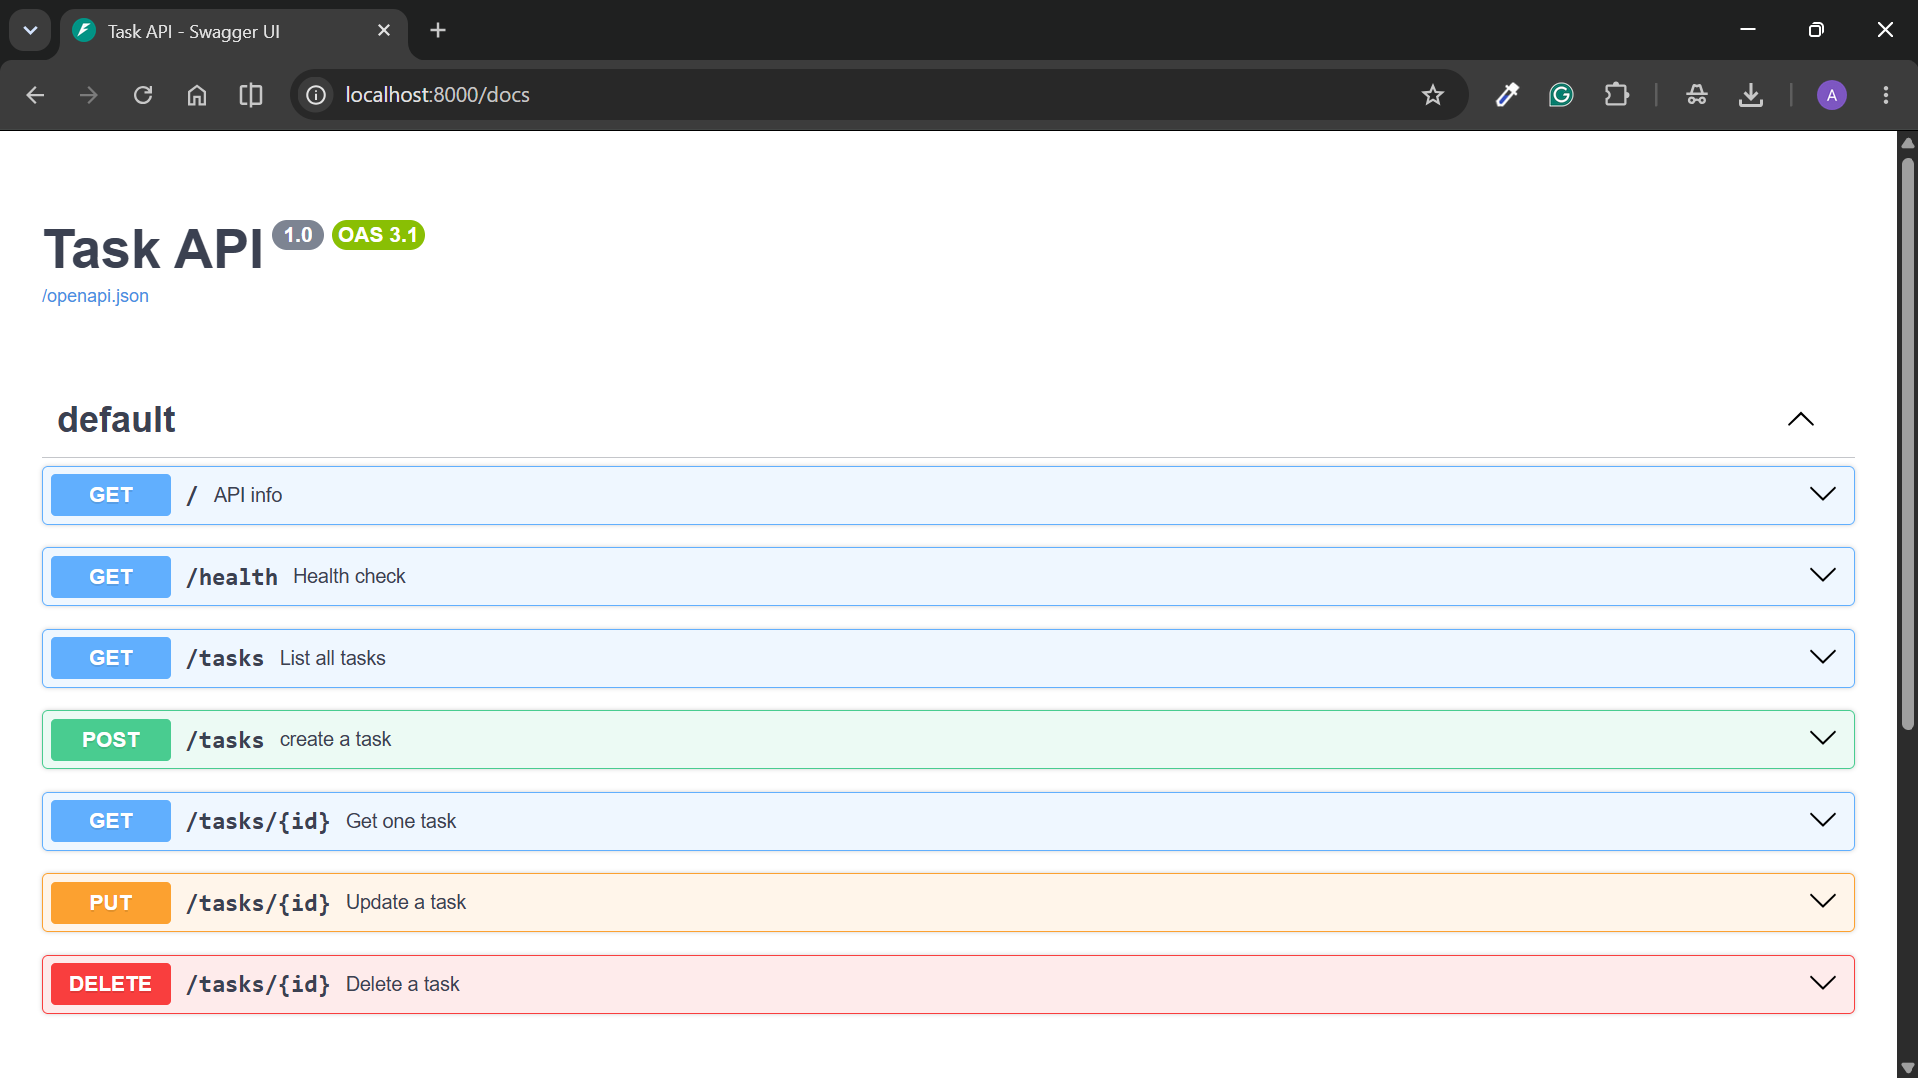
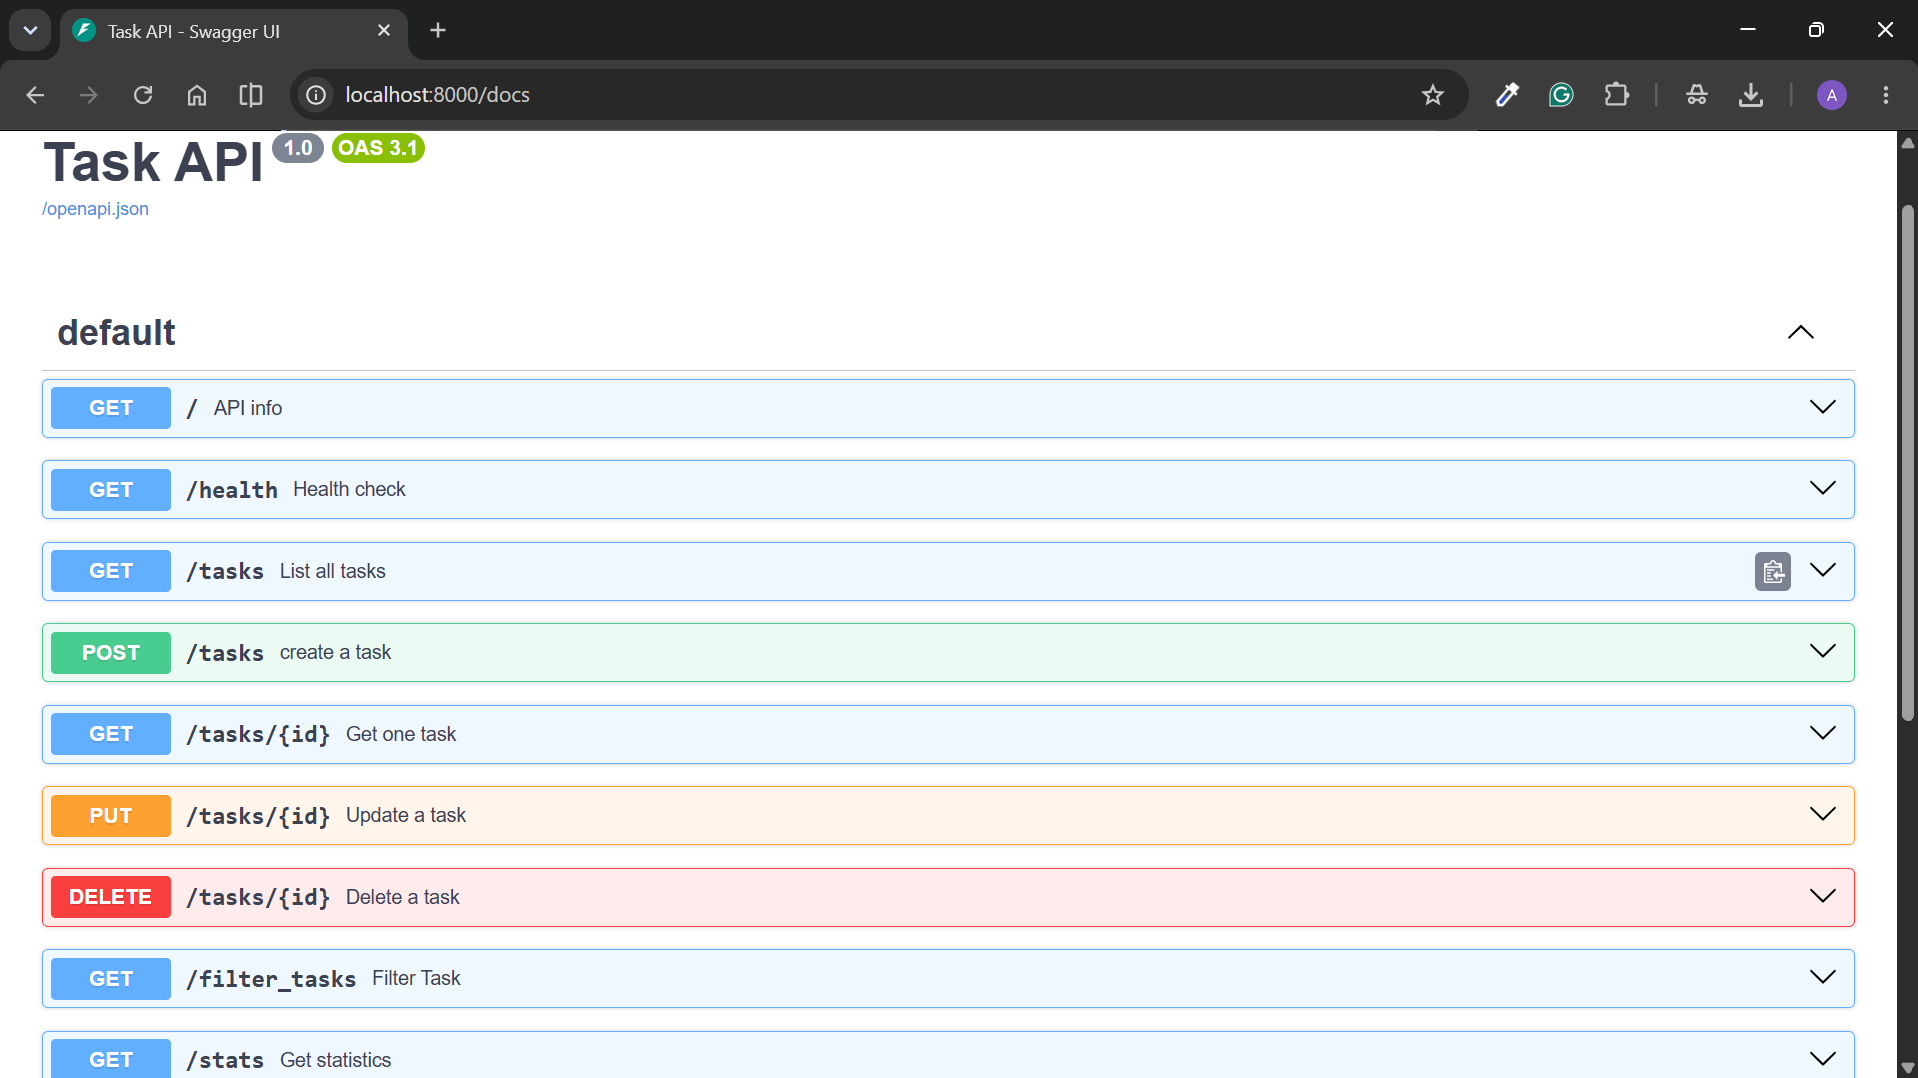
Stage 7: filter and stats endpoint added

diff --git a/task-api/main.py b/task-api/main.py
@@ -1,5 +1,5 @@
 from fastapi import FastAPI , HTTPException , Body , Response
-from pydantic import BaseModel
+from pydantic import BaseModel, field_validator
 
 app = FastAPI(title="Task API" , version="1.0")
 
@@ -74,4 +74,16 @@ def delete_task(id:int):
         status_code=404,
         detail="Unkown ID"
     )
+
+# Extras
+@app.get("/filter_tasks" , summary="Filter Task")
+def get_filtered_tasks(done:bool):
+    print(done)
+    filtered_tasks = [task for task in tasks if task["done"]==done]
+    return filtered_tasks
+
+@app.get("/stats" , summary="Get statistics")
+def get_stats():
+    done_count = len([task for task in tasks if task['done']==True])
+    return { "total": len(tasks), "done": done_count, "open": len(tasks) - done_count }
     
